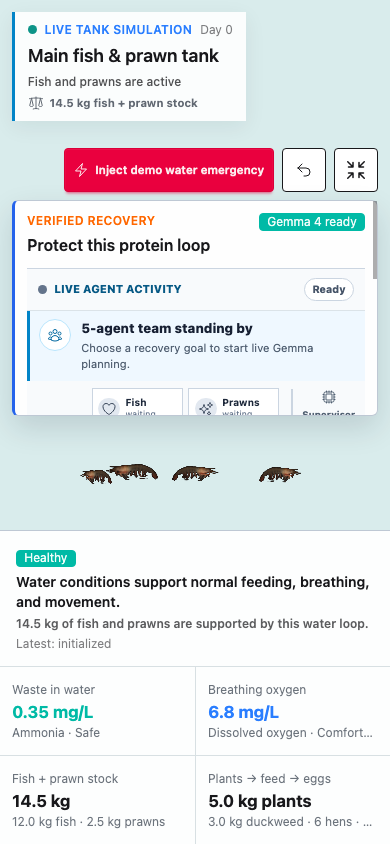
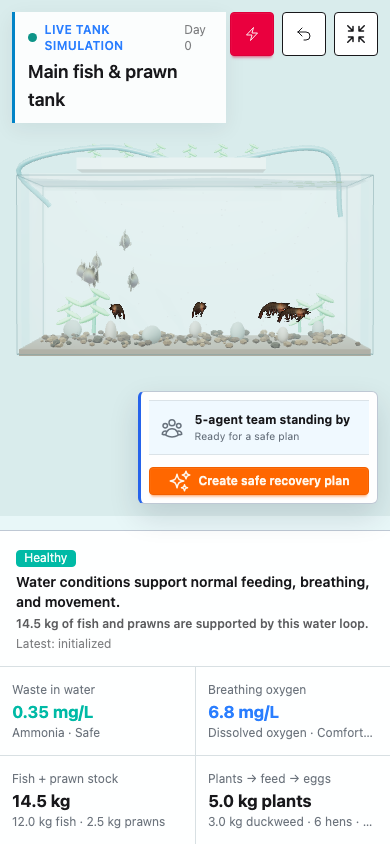
Record final deployed browser evidence

Changed region(s): [[0.0308, 0.0, 0.9846, 0.6161]]

diff --git a/scripts/generate_readiness_report.py b/scripts/generate_readiness_report.py
@@ -24,6 +24,7 @@ GENERATED_ARTIFACT_PATHS = [
     "submission/docker-smoke-evidence.json",
     "submission/final-readiness-report.md",
     "submission/proteinloop-lablab-upload.zip",
+    "submission/visual-evidence/report.json",
 ]
 
 COMMON_EVIDENCE_COMMANDS = [

diff --git a/specs/059-protein-first-judge-story/tasks.md b/specs/059-protein-first-judge-story/tasks.md
@@ -8,15 +8,16 @@
 - [x] Implement the plain-language verified recovery console and receipt.
 - [x] Verify producer permissions and responsive styles.
 - [x] Run tests, build assets, rebuild Docker, and run live-demo validation.
-- [ ] Capture desktop and mobile browser evidence when browser control is available.
+- [x] Capture deployed desktop and true 390 px mobile browser evidence.
 - [x] Publish executable evidence.
 
 ## Executable Evidence
 
-- `python3 -m unittest discover -s tests`: 156 tests passed.
-- `cd app && mix test`: 118 tests passed.
+- `python3 -m unittest discover -s tests`: 184 tests passed.
+- `cd app && mix test`: 132 tests passed.
 - `cd app && mix assets.build`: production CSS and JavaScript compiled.
 - `DEMO_URL=http://127.0.0.1:4001 SIMULATOR_PUBLIC_URL=http://127.0.0.1:8000 make live-demo-check`: all public route, asset, and simulator checks passed.
 - `python3 scripts/docker_smoke_test.py`: simulator recovery, operator route, producer permissions, and bundled visual assets passed.
-- Browser automation reported no available browser backend; screenshot evidence remains explicitly pending.
+- `python3 scripts/validate_visual_evidence.py`: deployed operator, producer, and actual full-screen captures passed dimensions and nonblank tank-pixel checks.
+- Browser layout inspection at 1440 px and 390 px found zero uncontained overflow.
 - Published to `main` in commit `ed9bf0a`.

diff --git a/specs/060-judge-winning-experience/tasks.md b/specs/060-judge-winning-experience/tasks.md
@@ -8,18 +8,18 @@
 - [x] Harden live regions, reduced motion, keyboard behavior, and mobile targets.
 - [x] Update README, submission path, executable validators, and the rendered deck.
 - [x] Run all tests, assets, Docker, live-demo, smoke, and submission evidence.
-- [ ] Capture browser evidence when a backend is available.
+- [x] Capture deployed operator, producer, and full-screen browser evidence.
 - [x] Publish the implementation and evidence.
 
 ## Executable Evidence
 
-- `python3 -m unittest discover -s tests`: 156 tests passed.
-- `cd app && mix test`: 119 tests passed.
+- `python3 -m unittest discover -s tests`: 184 tests passed.
+- `cd app && mix test`: 132 tests passed.
 - `cd app && mix assets.build`: production assets compiled with the responsive and reduced-motion styles.
 - `DEMO_URL=http://127.0.0.1:4001 SIMULATOR_PUBLIC_URL=http://127.0.0.1:8000 make live-demo-check`: operator, producer, assets, and simulator checks passed.
 - `python3 scripts/docker_smoke_test.py`: simulator recovery, producer isolation, operator markers, and visual assets passed.
 - `make submission-check`: submission artifacts passed; the refreshed deck contains 10 slides.
 - `mix format --check-formatted` and `make ci-check`: formatting and CI workflow contracts passed.
 - The light 108-frame demo video and 10-slide deck were regenerated; representative frames and the deck contact sheet were visually inspected.
-- Browser discovery returned no available backend, so application screenshots remain explicitly pending.
+- `submission/visual-evidence/`: deployed 1440 px desktop and 390 px mobile captures with checksums, zero uncontained overflow, and nonblank tank-pixel evidence.
 - Published to `main` in commit `51a530f`.

diff --git a/specs/056-realtime-tank-simulation/tasks.md b/specs/056-realtime-tank-simulation/tasks.md
@@ -9,5 +9,5 @@
 - [x] Integrate the read-only producer scene and remove the legacy SVG fallback.
 - [x] Update validators and documentation.
 - [x] Run application, Docker, route, and responsive layout-contract verification.
-- [ ] Capture desktop/mobile canvas pixels when browser automation is available.
+- [x] Capture desktop/mobile canvas pixels and validate nonblank deployed tank regions.
 - [x] Regenerate evidence and publish.

diff --git a/specs/057-realistic-aquarium-scene/tasks.md b/specs/057-realistic-aquarium-scene/tasks.md
@@ -10,5 +10,5 @@
 - [x] Correct responsive camera and overlay framing.
 - [x] Update README and submission demo notes.
 - [x] Run application, Docker, and route verification.
-- [ ] Capture desktop/mobile PBR canvas pixels when browser automation is available.
+- [x] Capture desktop/mobile PBR canvas pixels and validate final framing.
 - [x] Publish the implementation and evidence.

diff --git a/specs/058-immersive-agentic-tank/tasks.md b/specs/058-immersive-agentic-tank/tasks.md
@@ -9,7 +9,7 @@
 - [x] Verify producer remains read-only.
 - [x] Update README and submission demo notes.
 - [x] Run application tests, production assets, Docker route checks, and live-demo validation.
-- [ ] Capture desktop and mobile browser screenshots when the embedded browser is available.
+- [x] Capture actual Fullscreen API desktop and mobile browser screenshots.
 - [x] Publish implementation and executable evidence.
 - [x] Preserve the initialized Three.js canvas across emergency and telemetry LiveView patches.
 - [x] Separate the compact normal recovery dock from full-screen agent detail.